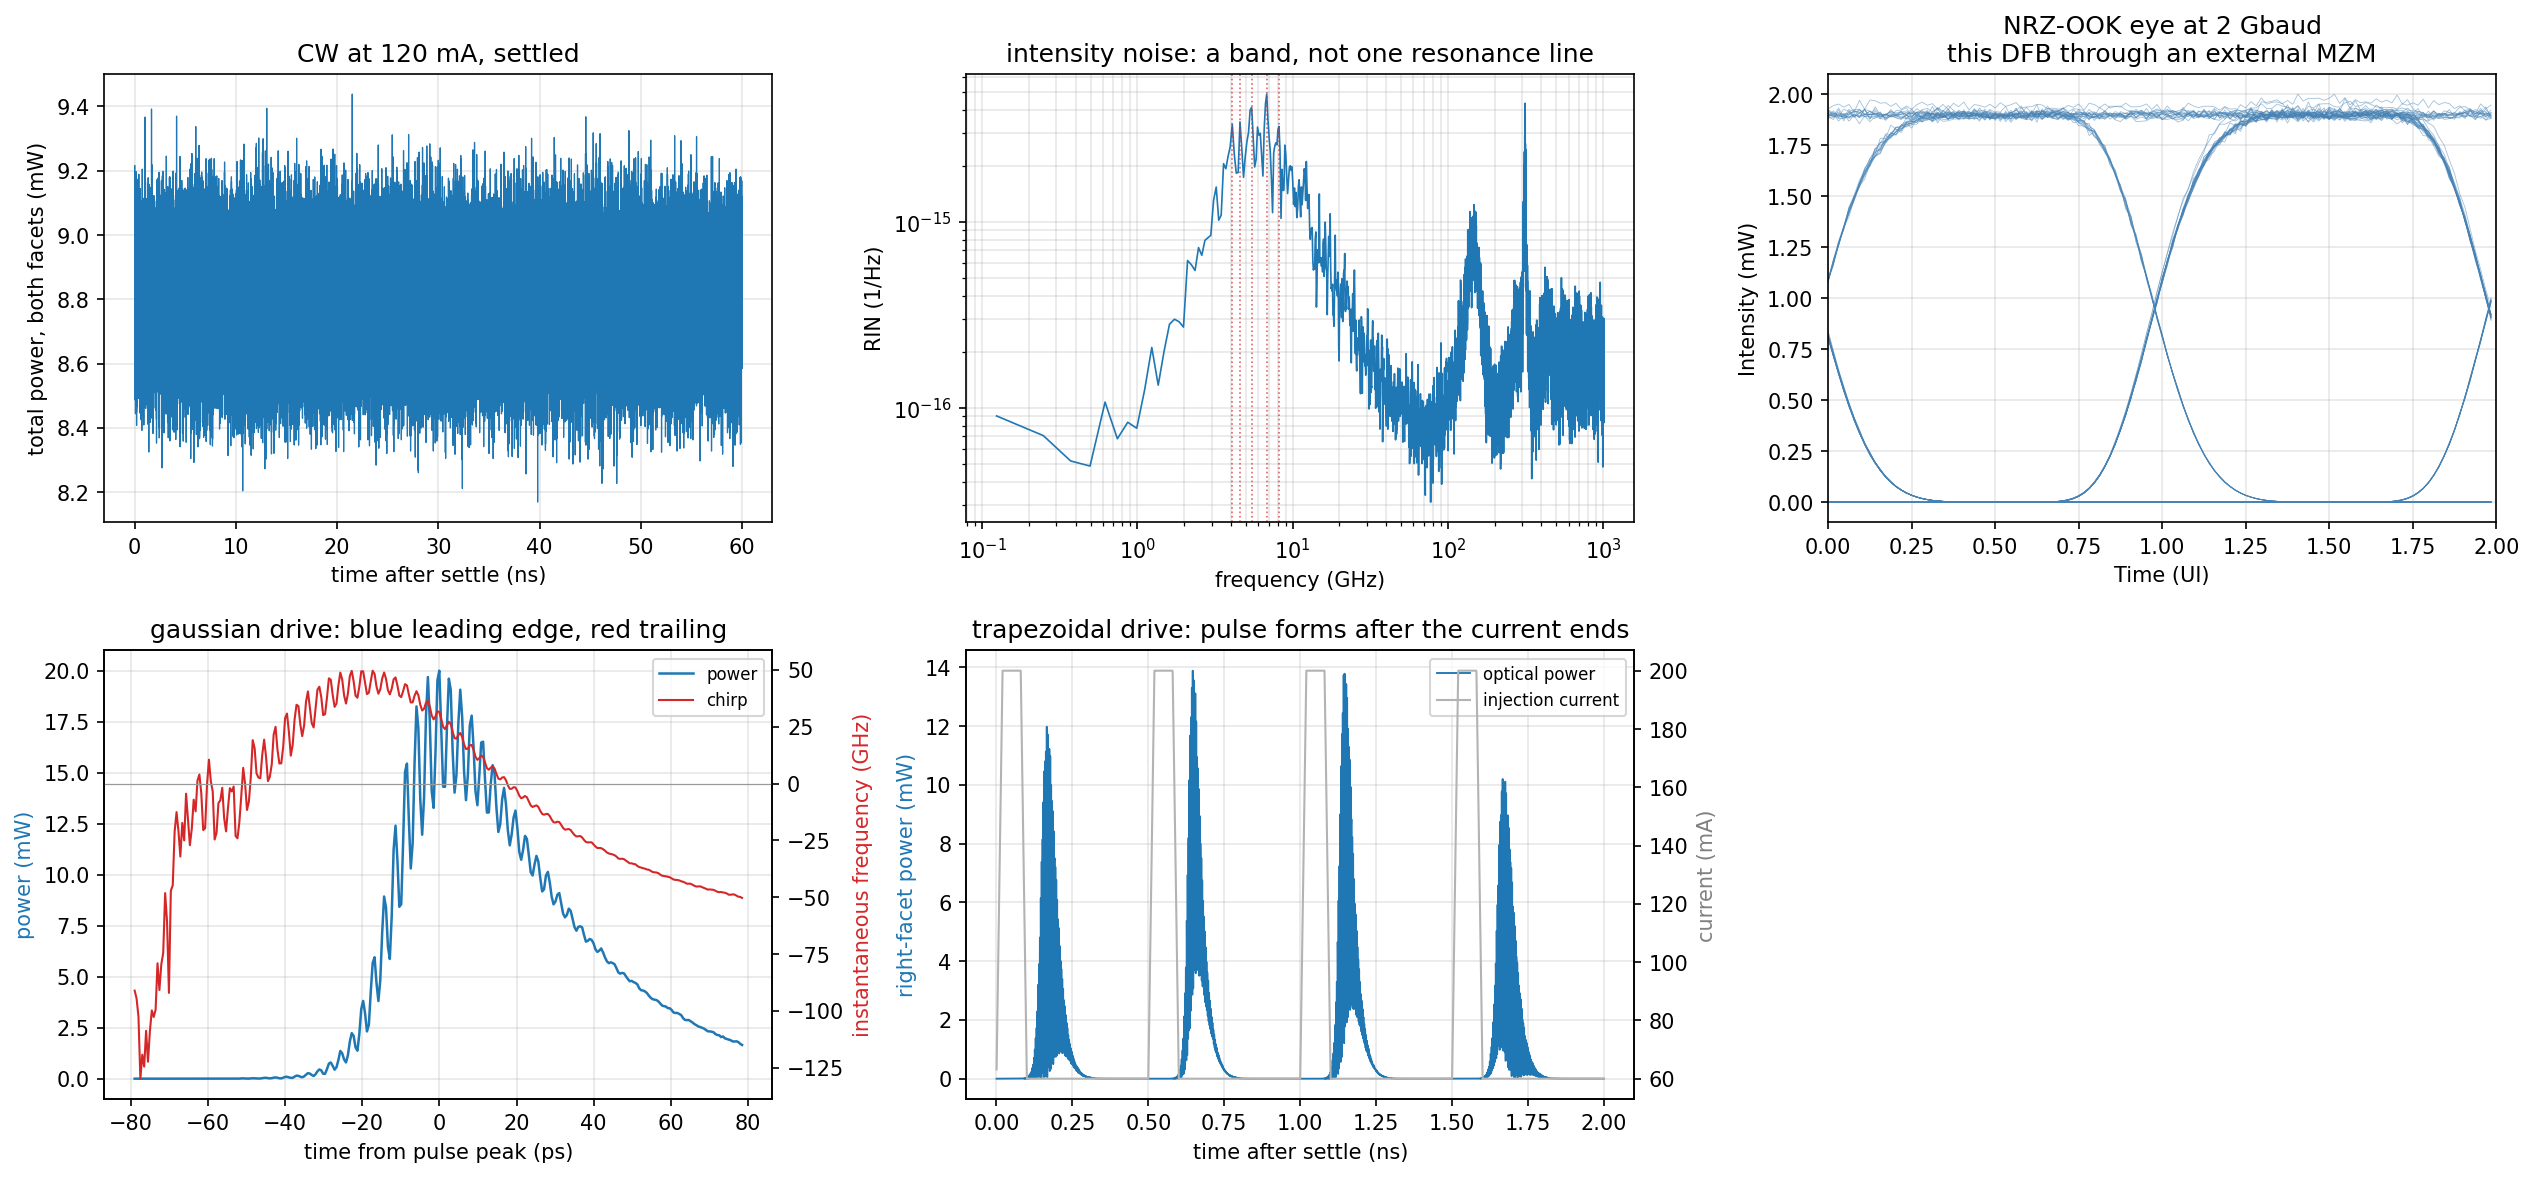
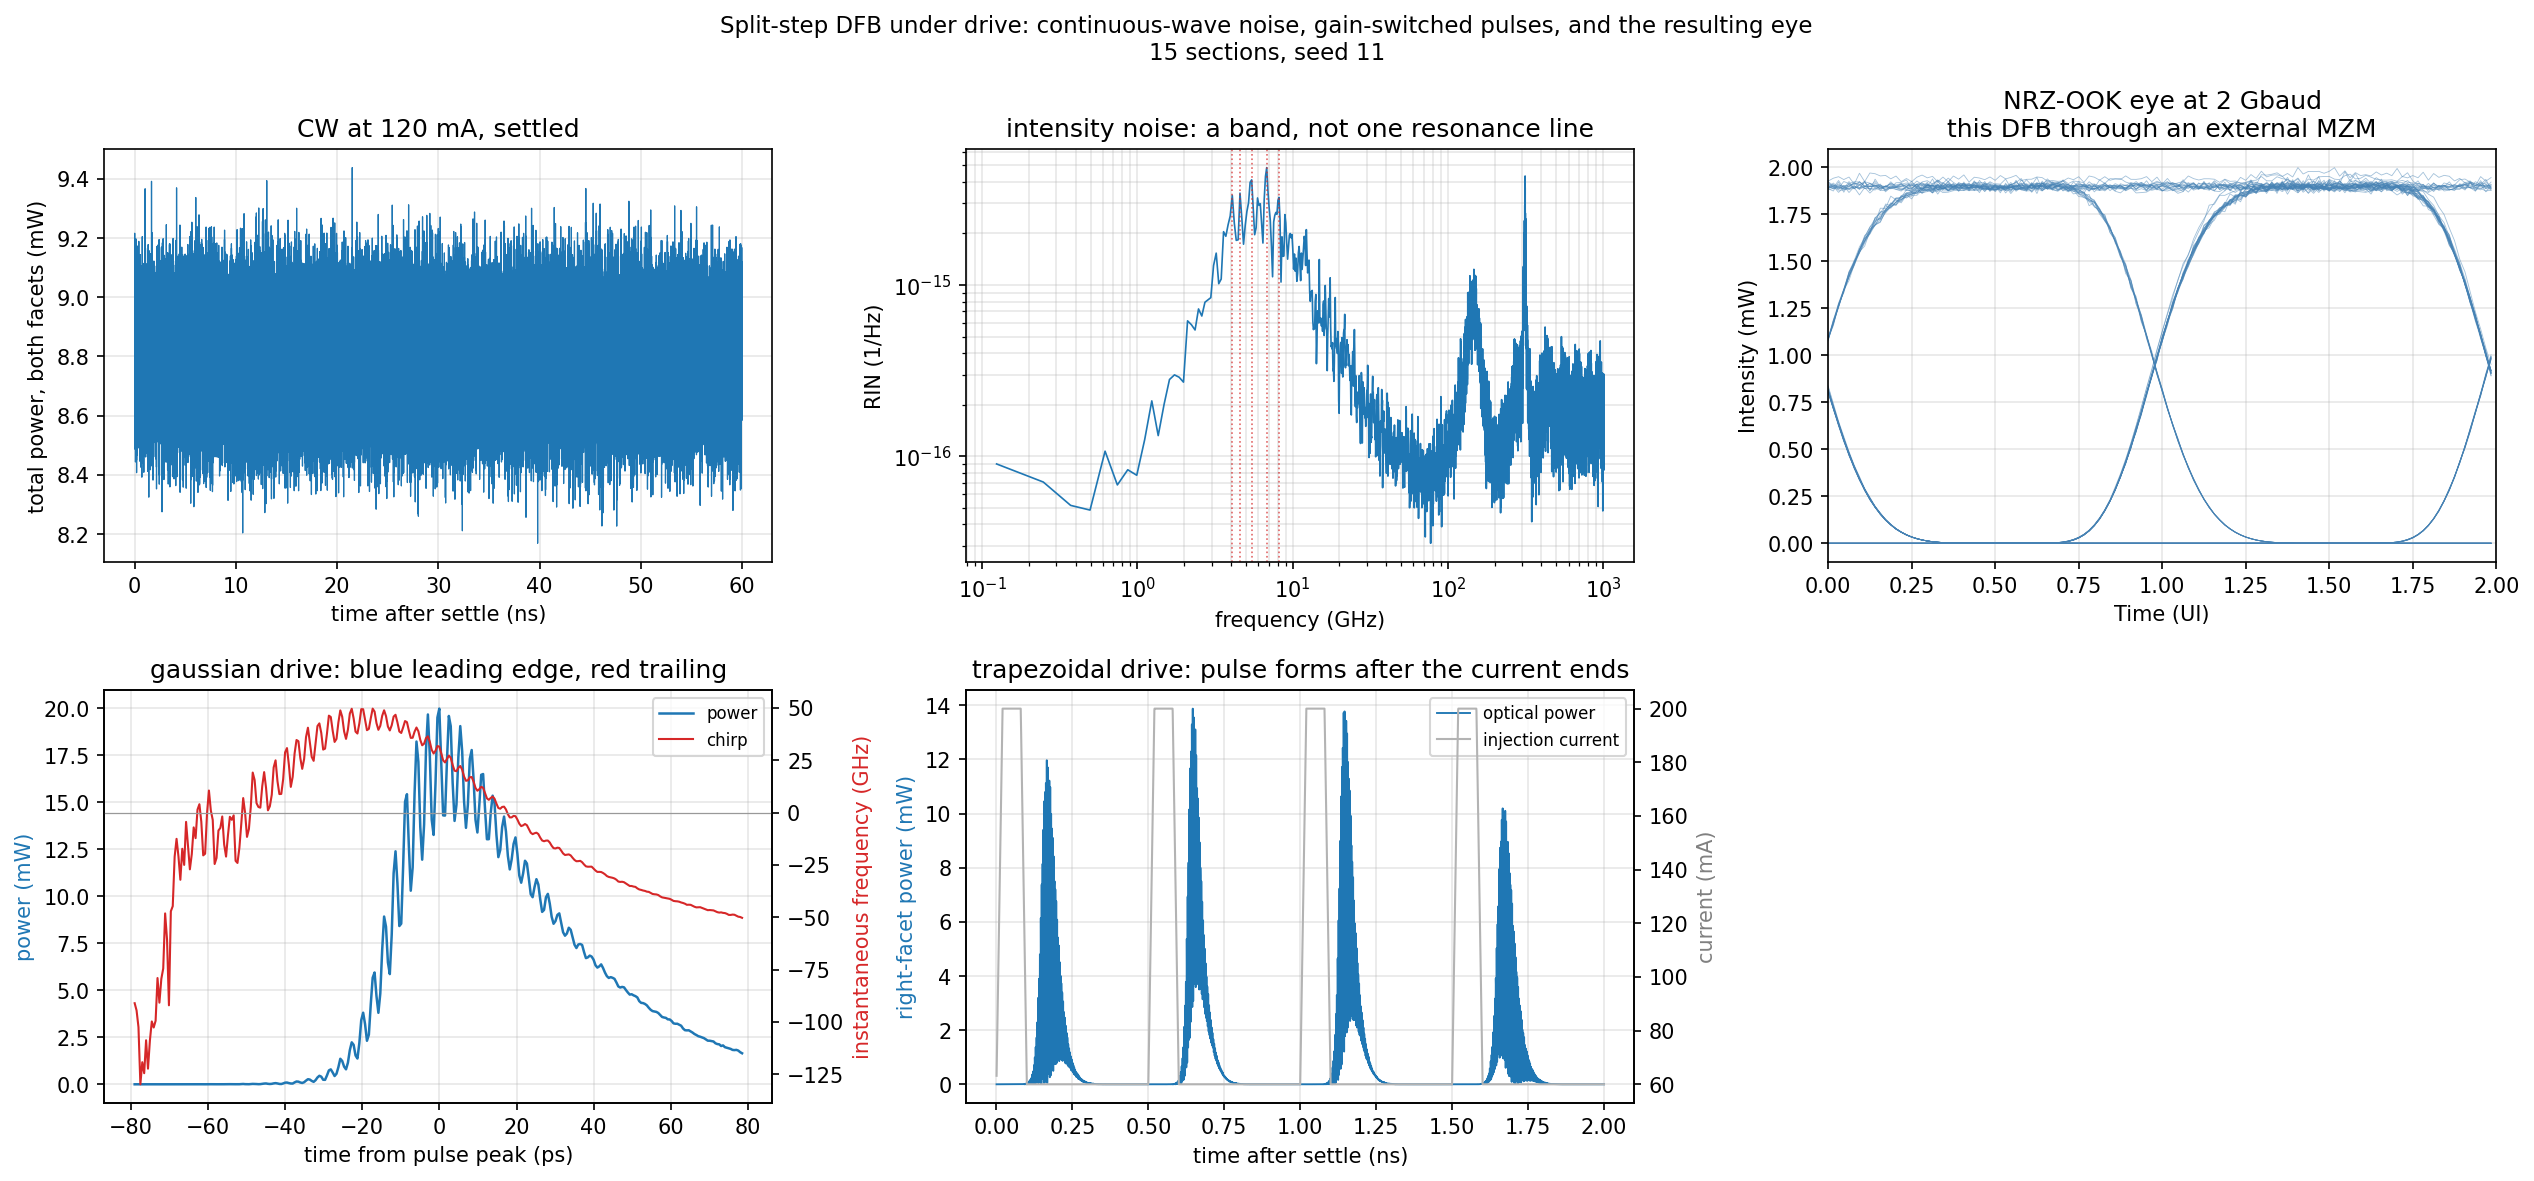
val_gobby: cut two false statements from the artifact header
The header was 37 lines of 47 in the CSV and 46 of 60 in the .tex, and
trimming it turned up that two of those blocks were not merely verbose.

It told the reader afterpulsing "is the candidate for the paper's
acknowledged third error source". Page 6 resolves that source itself, and
it is interferometer imperfection, explicitly bounded as minor by a
classical interference visibility better than 99.9%. The header also
contradicted the constant it documents: AFTERPULSE_PROB's own comment says
afterpulsing is zeroed BECAUSE carrying it beside the modulation error
would double-count.

It also recorded a "structural difference worth recording" -- that Gobby
split 1.6:1 while "this encoder AMZI splits 50:50" -- and attributed part
of any residual to it. The chain does no such thing. simulate_qber passes
split_ratio=SPLIT_RATIO=1.6 and bb84_time_bin builds the encoder at
kappa = 1/(1+1.6), so it reproduces the paper's ratio exactly. The header
was assigning residual to a difference that does not exist.

What is left is parameters, sources and units: the link budget, the two
detector inputs with their ID230 provenance and the standing caution not
to fit them, and what the V column is. The reasoning behind each choice
stays beside its constant, where it can be kept correct, instead of being
copied into every artifact. Header down to 23 of 33 lines in the CSV and
27 of 41 in the .tex.

The (m)/(i) marking survives -- 6.0\,(m@101) still prints -- and
[…]

diff --git a/analysis/val_gobby/validate_gobby.py b/analysis/val_gobby/validate_gobby.py
@@ -808,54 +808,45 @@ def run_validation(num_bits=200000, seed=42, distances=None,
                   + ("" if afterpulse_prob == AFTERPULSE_PROB
                      else f" --afterpulse {afterpulse_prob:g}"))
 
-    def provenance(comment):
+    def provenance(comment, marking=True):
         """Parameter provenance, shared by the .tex and .csv headers.
 
-        Written into every artifact because the single most important
-        fact about these numbers is which of them came from the paper
-        (all the link parameters) and which did not (two detector
-        parameters).
+        Records which numbers came from the paper and which did not,
+        because that is the one fact a reader cannot recover from the data.
+        Parameters, sources, units.  It does not argue: the reasoning for
+        each choice lives beside its constant above, where it can be kept
+        correct, rather than being copied into every artifact.
+
+        `marking=False` omits the (m)/(i) paragraph, for callers that print
+        their own legend next to the table it describes.
         """
         c = comment
         lines = [
             "Gobby et al. (2004) link budget -- from the paper, not fitted:",
-            f"  alpha = {ALPHA_dB} dB/km   mu = {MU} photons/clock   "
-            f"eta_Bob = {ETA_BOB} (incl. Bob's 5 dB)",
-            f"  gate = {GATE_WIDTH*1e9:.1f} ns   clock = {REP_RATE/1e6:g} MHz   "
-            f"pulse = {PULSE_WIDTH*1e12:.0f} ps",
-            f"  P_e = {p_e:.2e}/clock/detector -- Gobby's measured total error",
-            "        probability (dark count 3.2e-7 + 1.3 um clock-laser stray",
-            "        light 5.3e-7, deliberately lumped: their sum is what was",
-            "        measured, and splitting them adds an unconstrained knob).",
+            f"  alpha   {ALPHA_dB} dB/km       mu     {MU} photons/clock",
+            f"  eta_Bob {ETA_BOB}         (includes Bob's 5 dB apparatus loss)",
+            f"  gate    {GATE_WIDTH*1e9:.1f} ns         clock  {REP_RATE/1e6:g} MHz"
+            f"       pulse  {PULSE_WIDTH*1e12:.0f} ps",
+            f"  P_e     {p_e:.2e}/clock/detector -- measured total error",
+            "          probability: dark count 3.2e-7 + clock-laser stray",
+            "          light 5.3e-7, lumped because the sum is what was measured",
             "",
-            "Detector parameters NOT from Gobby (the only free inputs here):",
-            f"  afterpulse_prob = {afterpulse_prob}   dead_time = "
-            f"{DEAD_TIME*1e6:g} us   [ID230 datasheet]",
-            "  Afterpulsing is the candidate for the paper's acknowledged",
-            "  third error source (residual 2.9-4.2 pp, roughly",
-            "  distance-independent; measured here in isolation at 2.26 %).",
-            "  It is used at its datasheet value and MUST NOT be fitted --",
-            "  doing so would make the 122 km point a fit rather than a",
-            "  prediction, which is the whole point of this parameterisation.",
+            "Not from Gobby, both at datasheet value and NOT to be fitted --",
+            "fitting either would make the 122 km point a fit, not a prediction:",
+            f"  afterpulse_prob {afterpulse_prob}   dead_time {DEAD_TIME*1e6:g} us   [ID230]",
             "",
-            "Visibility is an OUTPUT, V = S/(S + 2*P_e), not an input; the",
-            f"decoder is ideal (V = {visibility}).  Injecting a measured",
-            "visibility as well would apply the same physics twice -- see",
-            "twice.  The V column below is that prediction; the paper",
-            "states > 0.99 at 65 km and 0.884 at 122 km.",
-            "",
-            "Structural difference worth recording: Gobby's 1.6:1 reference-",
-            "to-encoded intensity ratio puts 0.04 photons in the encoded",
-            "pulse, whereas this encoder AMZI splits 50:50.  That is a",
-            "difference in the chain, not a parameter, and may account for",
-            "part of any residual.",
-            "",
-            "The Gobby column is a MEASUREMENT only on rows marked (m).",
-            f"The paper published four points -- {', '.join(f'{d:g}' for d in GOBBY_DIST_KM)} km",
-            "-- and rows marked (i) are np.interp between them, or below",
-            "4.4 km the endpoint value repeated.  Compare against the (m)",
-            "rows; the (i) rows cannot disagree with anything.",
+            f"Visibility is an output of this budget, V = S/(S + 2*P_e), and the",
+            f"decoder is ideal at V = {visibility}.  The V column is that prediction;",
+            "the paper states > 0.99 at 65 km and 0.884 at 122 km.",
         ]
+        if marking:
+            lines += [
+                "",
+                "The Gobby column is a MEASUREMENT only on rows marked (m); the",
+                f"paper published four points, {', '.join(f'{d:g}' for d in GOBBY_DIST_KM)} km.  Rows marked (i)",
+                "are np.interp between them, or below 4.4 km the endpoint",
+                "repeated, and cannot disagree with anything.",
+            ]
         return ''.join(f"{c} {ln}\n" if ln else f"{c}\n" for ln in lines)
 
     # Save results table.  An under-powered run writes to its own name so
@@ -867,7 +858,10 @@ def run_validation(num_bits=200000, seed=42, distances=None,
         f.write(f"% Generated by analysis/val_gobby/validate_gobby.py "
                 f"{invocation}\n")
         f.write("% QBER error bars are binomial sqrt(q(1-q)/n_sifted).\n%\n")
-        f.write(provenance('%'))
+        # marking=False: this file prints its own (m)/(m@x)/(i) legend below
+        # the tabular, where a reader of the table needs it. The CSV has no
+        # such place, so it keeps the paragraph in its header.
+        f.write(provenance('%', marking=False))
         f.write("%\n")
         f.write(r"\begin{tabular}{rcccccc}" + "\n")
         f.write(r"  Distance & Pulses & Sifted & QBER & Predicted & This work "
@@ -948,7 +942,12 @@ def run_validation(num_bits=200000, seed=42, distances=None,
         ax.plot(GOBBY_DIST_KM, GOBBY_QBER, 'gs', label='Gobby paper (Fig 3)')
         ax.set_xlabel('Distance (km)')
         ax.set_ylabel('QBER (%)')
-        ax.set_title('Time-bin BB84 — QBER vs Distance')
+        # Self-describing, because a figure travels away from the script
+        # that made it. Which paper, which seed, what budget.
+        ax.set_title('Replication of Gobby, Yuan & Shields (2004): '
+                     'time-bin BB84 QBER vs distance\n'
+                     f'seed {seed}, {budget_mode}, link budget from the '
+                     'paper with nothing fitted')
         ax.legend()
         ax.grid(True, alpha=0.3)
         ax.axhline(y=11.0, color='r', linestyle='--', alpha=0.5, label='BB84 threshold (11%)')

diff --git a/analysis/validation/validate_duplinskiy_urban.py b/analysis/validation/validate_duplinskiy_urban.py
@@ -396,6 +396,16 @@ def _figure(tr, quick=False):
     ax2.grid(True, alpha=0.3)
     ax2.legend(fontsize=8)
 
+    # Neither panel title names the experiment, and a figure travels away
+    # from the script that made it.
+    # Second line carries provenance, not a repeat of the panel titles
+    # below, which already name the block length and the link.
+    fig.suptitle('Duplinskiy polarisation chain over an urban line: is the '
+                 'QBER stationary in time?\n'
+                 f'{N_BLOCKS} blocks of ~{BLOCK_SIFTED} sifted bits, seed '
+                 f'{SEED}'
+                 + ('   [QUICK -- not quotable]' if quick else ''),
+                 fontsize=11)
     fig.tight_layout()
     png = os.path.join(OUT_DIR, _stem(quick) + '.png')
     fig.savefig(png, dpi=150, bbox_inches='tight')

diff --git a/analysis/validation/validate_dfb_drive.py b/analysis/validation/validate_dfb_drive.py
@@ -741,6 +741,13 @@ def _figure(t, P, f, S, peaks, rg, stg, rt, cw_current, quick=False):
     # with something that does not belong.
     ax[1, 2].axis('off')
 
+    # Each panel title says what that panel shows; none says what the figure
+    # is, and a figure travels away from the script that made it.
+    fig.suptitle('Split-step DFB under drive: continuous-wave noise, '
+                 'gain-switched pulses, and the resulting eye\n'
+                 f'{N_SECTIONS} sections, seed {SEED}'
+                 + ('   [QUICK -- not quotable]' if quick else ''),
+                 fontsize=11)
     fig.tight_layout()
     png = os.path.join(OUT_DIR, _stem('val_dfb_drive', quick) + '.png')
     fig.savefig(png, dpi=150, bbox_inches='tight')
